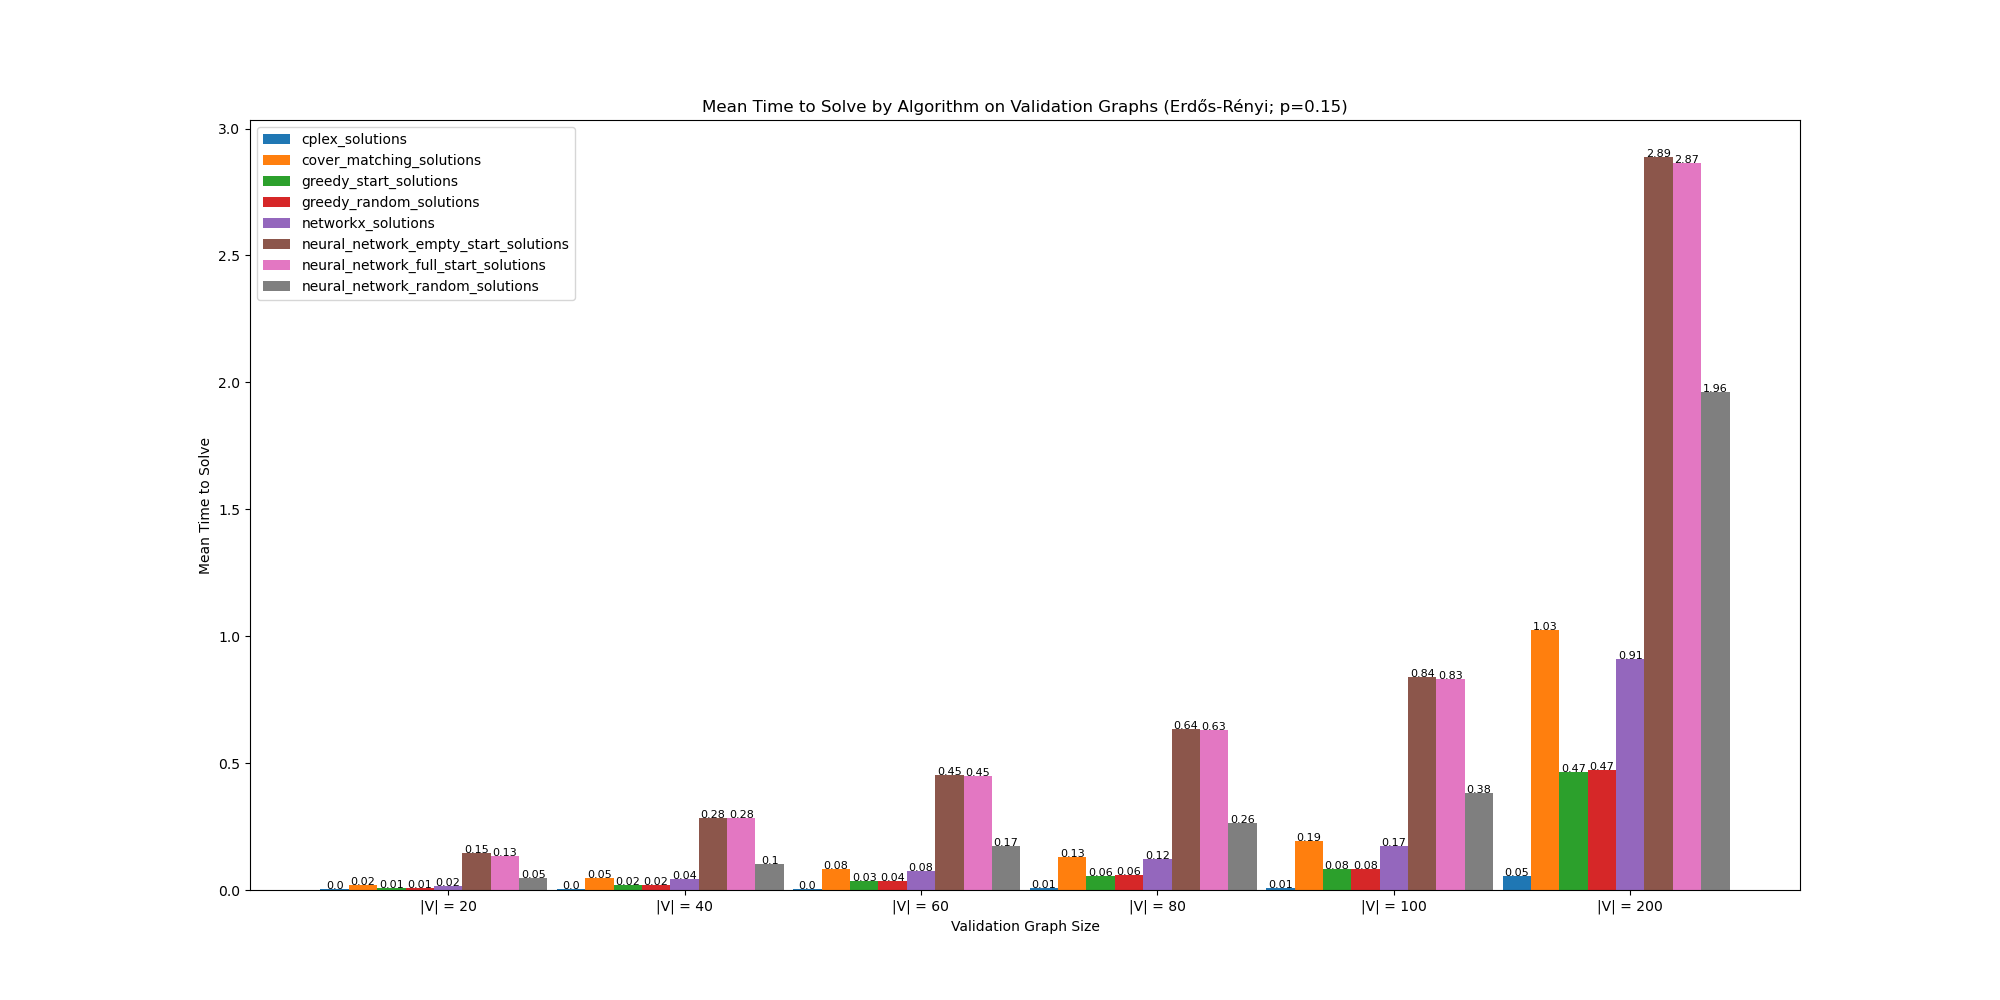
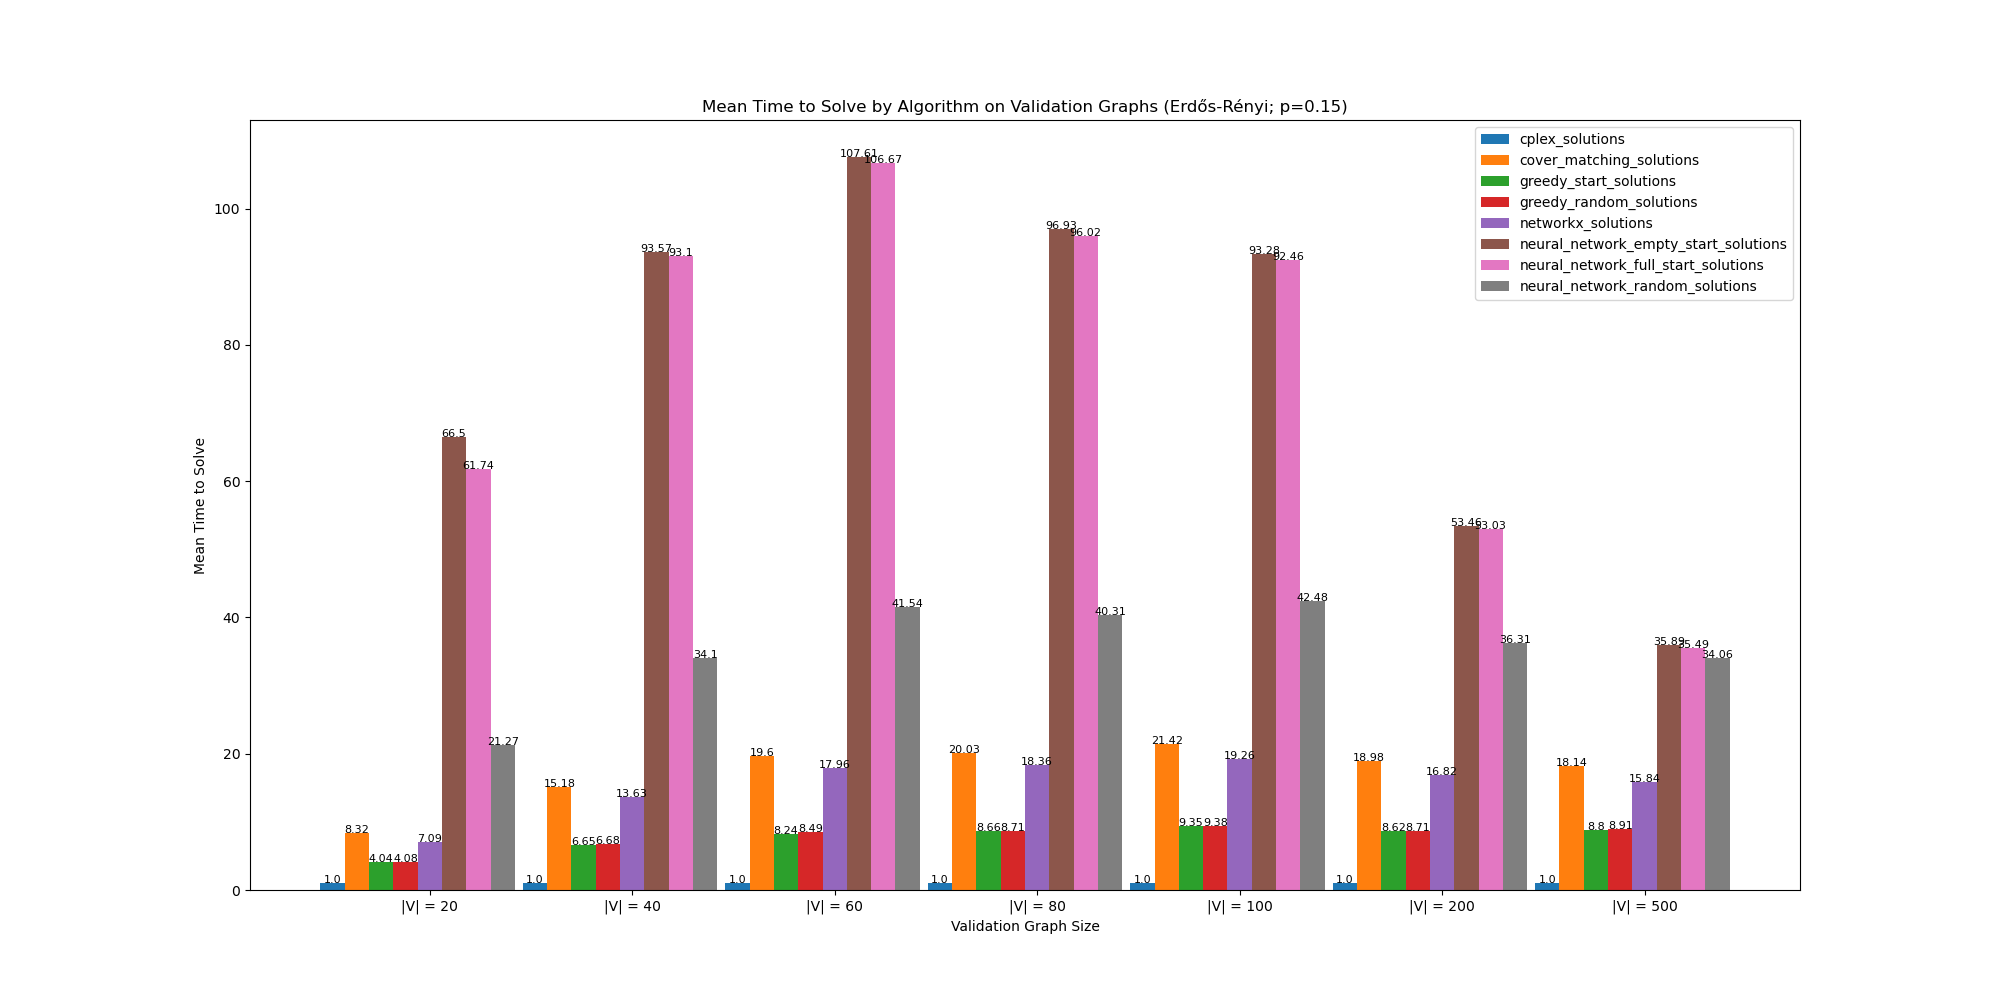
new visualizations

Changed region(s): [[0.155, 0.124, 0.899, 0.93], [0.124, 0.124, 0.279, 0.31], [0.093, 0.434, 0.124, 0.558]]

diff --git a/create_mvc_test_plots.py b/create_mvc_test_plots.py
@@ -1,7 +1,7 @@
 import matplotlib.pyplot as plt
 import numpy as np
 
-vert_counts = [20, 40, 60, 80, 100, 200]
+vert_counts = [20, 40, 60, 80, 100, 200, 500]
 
 
 x = ["|V| = {}".format(i) for i in vert_counts]
@@ -73,6 +73,13 @@ plt.clf()
 
 plt.figure(figsize=(20, 10))
 solution_times['neural_network_random_start_times'] = np.divide(solution_times['neural_network_random_start_times'], 50)
+
+for i in solution_times:
+    cplex_times = solution_times[i]
+    break
+
+for alg in solution_times:
+    solution_times[alg] = list(np.divide(solution_times[alg], cplex_times))
 
 for i, data in enumerate(solution_times):
     bars.append(plt.bar(ind + width * i, solution_times[data], width))
